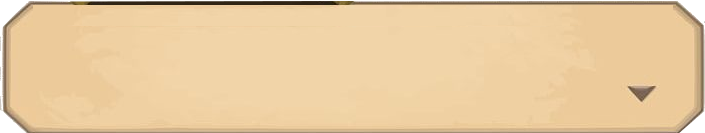
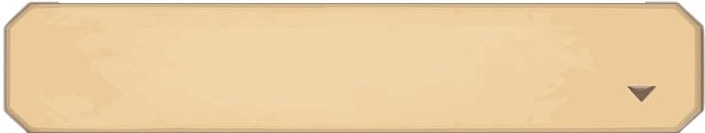
Fix dialog box pos & dialog_box.png

diff --git a/src/npc/init_dialog.c b/src/npc/init_dialog.c
@@ -16,7 +16,7 @@
 
 static const char path_dialog_img[] = "./assets/image/npc/dialog_box.png";
 static const sfIntRect rect_dialog = {-1, -1, -1, -1};
-const sfVector2f pos_dialog = {0, 470};
+const sfVector2f pos_dialog = {0, 300};
 
 const char path_font[] = "./assets/fonts/Menlo-Regular.ttf";
 const sfVector2f pos_text = {0, 470};
